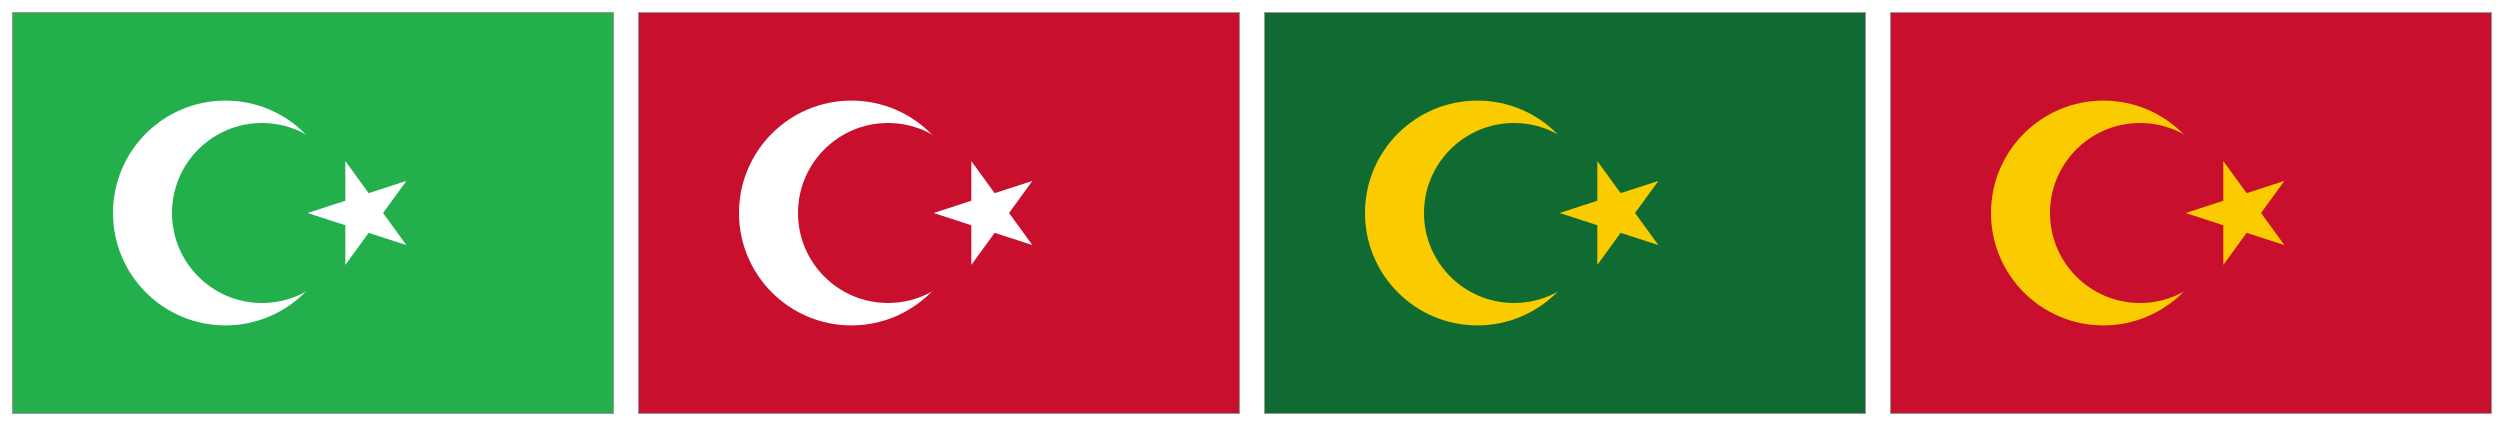
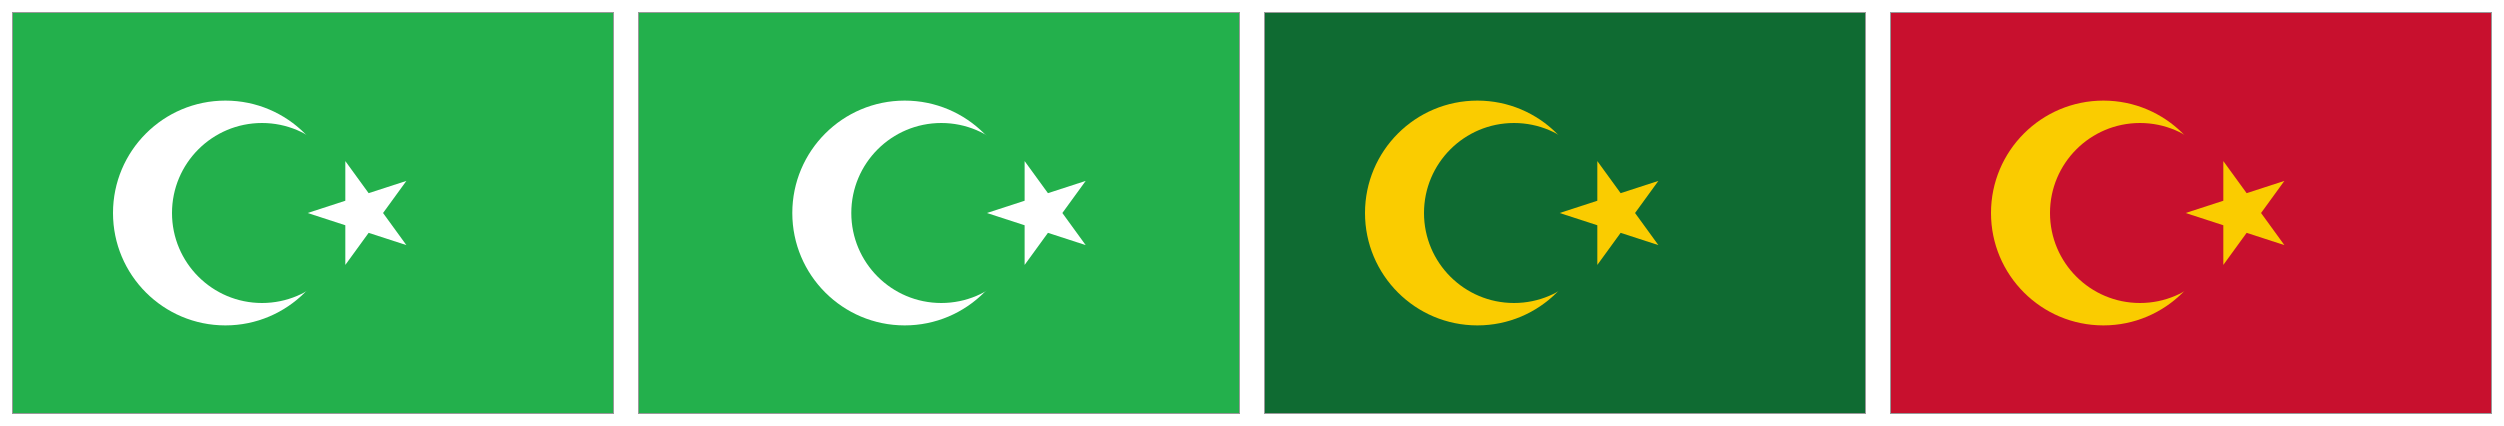
Osmanowie: zielona republika
Claude-Session: https://claude.ai/code/session_01PNyJEgjZDVeUSFrp2WbnmN

Changed region(s): [[0.2492, 0.0305, 0.4984, 0.9765]]

diff --git a/gfx_koncepty/flagi_osmanowie/generuj_flagi.py b/gfx_koncepty/flagi_osmanowie/generuj_flagi.py
@@ -36,8 +36,8 @@ def bg(col):
 F = {
     # Sułtanat (dynastia Osmanów, Adana): zieleń z białym półksiężycem i gwiazdą (wzór od autora moda)
     'osmanowie_1_sultanat': svg(bg(G) + ksiezyc_gwiazda(W, 'm')),
-    # Republika: czerwień z białym półksiężycem i gwiazdą (nawiązanie do realnej czerwonej flagi osmańskiej)
-    'osmanowie_2_republika': svg(bg(R) + ksiezyc_gwiazda(W, 'm')),
+    # Republika: zieleń jak sułtanat, biały półksiężyc i gwiazda wyśrodkowane
+    'osmanowie_2_republika': svg(bg(G) + ksiezyc_gwiazda(W, 'm', dx=26.65)),
     # Kalifat (teokracja): ciemna zieleń ze złotym półksiężycem i gwiazdą
     'osmanowie_3_kalifat': svg(bg(GD) + ksiezyc_gwiazda(Y, 'm')),
     # Rewolucja: czerwień ze złotym półksiężycem i gwiazdą

diff --git a/gfx_koncepty/flagi_osmanowie/README.md b/gfx_koncepty/flagi_osmanowie/README.md
@@ -5,7 +5,7 @@ Generator: `python3 generuj_flagi.py`. Półksiężyc i gwiazda są rysowane geo
 | Plik | Opis |
 |---|---|
 | osmanowie_1_sultanat | Sułtanat (dynastia Osmanów, Adana): zieleń z białym półksiężycem i gwiazdą |
-| osmanowie_2_republika | Republika: czerwień z białym półksiężycem i gwiazdą (nawiązanie do realnej czerwonej flagi osmańskiej; prawie jak dzisiejsza Turcja) |
+| osmanowie_2_republika | Republika: zieleń jak sułtanat, biały półksiężyc i gwiazda wyśrodkowane |
 | osmanowie_3_kalifat | Kalifat (teokracja): ciemna zieleń ze złotym półksiężycem i gwiazdą |
 | osmanowie_4_rewolucja | Rewolucja: czerwień ze złotym półksiężycem i gwiazdą |
 
